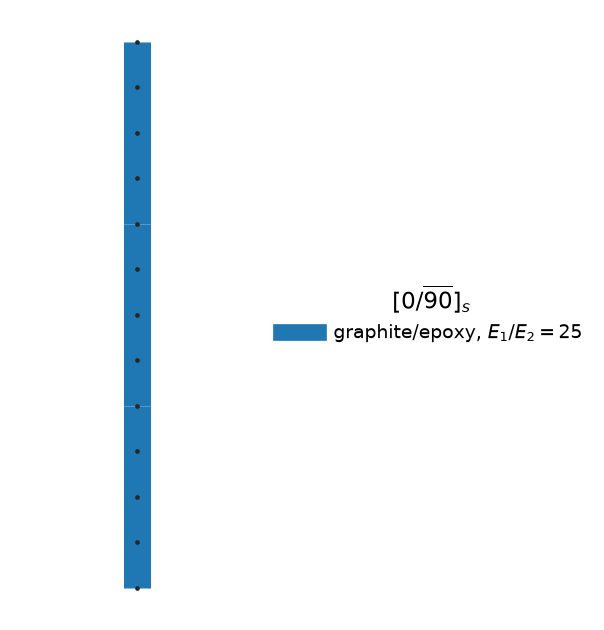
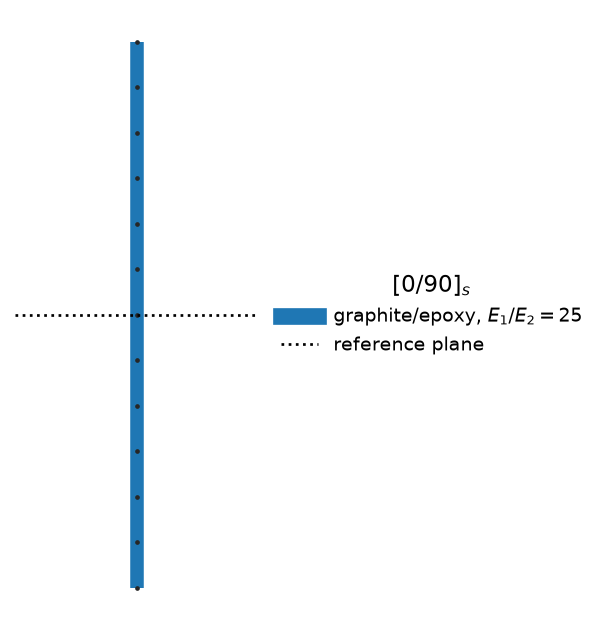
segment_plate plot: halve the mesh line weight (13 -> 6.5) and show the reference plane instead of spelling it. Dropped the overbar from layup_label (an odd palindrome now just keeps its mid-plane ply as the last token, Nayak-style: [0/90/0/90/core]s) and added a black dotted axhline at x3 = 0 with 

Changed region(s): [[0.1788, 0.0603, 0.2682, 0.9349], [0.447, 0.4222, 0.9834, 0.573], [0.3576, 0.4825, 0.3874, 0.5127]]

diff --git a/opensg_jax/fe_jax/segment_plate.py b/opensg_jax/fe_jax/segment_plate.py
@@ -208,12 +208,14 @@ def layup_label(angles, mat_names):
     Plies of the majority (face) material are named by their fibre angle, anything else
     by its material -- the sandwich convention that writes the core as a token rather
     than a meaningless 0 degrees.  A palindromic stack collapses onto its symmetric half
-    with the ``s`` subscript, and an odd stack puts the classical overbar on the
-    mid-plane ply::
+    with the ``s`` subscript; an odd stack keeps its mid-plane ply as the last token
+    (Nayak's own form for this sandwich).  The classical overbar that would mark that
+    ply is deliberately NOT drawn -- the figure shows the reference plane as a dotted
+    line straight through the mesh, which says the same thing where you can see it::
 
-        [0/90/0]                 -> $[0/\\overline{90}]_s$
-        [0/90/0/90/core]s        -> $[0/90/0/90/\\overline{core}]_s$
-        [0/45/-45/90] (no symm.) -> $[0/45/-45/90]$
+        [0/90/0]                 -> $[0/90]_s$
+        [0/90/0/90/core]s        -> $[0/90/0/90/\\mathrm{core}]_s$
+        [0/45/-45/90] (no symm.) -> $[0/45/{-}45/90]$
     """
     face = max(set(mat_names), key=mat_names.count)
     # "{-}45", not "-45": braces make the minus an ordinary symbol, so mathtext
@@ -222,8 +224,7 @@ def layup_label(angles, mat_names):
            for a, m in zip(angles, mat_names)]
     n = len(tok)
     if n > 1 and tok == tok[::-1]:
-        half = tok[:n // 2] + ([("\\overline{%s}" % tok[n // 2])] if n % 2 else [])
-        return "$[%s]_s$" % "/".join(half)
+        return "$[%s]_s$" % "/".join(tok[:(n + 1) // 2])
     return "$[%s]$" % "/".join(tok)
 
 
@@ -252,12 +253,15 @@ def _draw_plate_sg(png_path, node_x, elements, elem_sets, section_sets,
     fig, ax = plt.subplots(figsize=(2.1, 5.2))
     for e, el in enumerate(elements):                 # each element = one line segment
         ax.plot([0.0, 0.0], [z[el[0]], z[el[-1]]], "-",
-                color=colr[mat_names[ply_of[e]]], lw=13.0,
+                color=colr[mat_names[ply_of[e]]], lw=6.5,
                 solid_capstyle="butt", zorder=1)
     ax.plot(np.zeros_like(z), z, ".", ms=2.5, color="0.15", zorder=3)
     for m in mats:
         label = (material_db or {}).get(m, {}).get("full_name") or m
         ax.plot([], [], "-", color=colr[m], lw=8, label=label)
+    # x3 = 0 IS the reference plane by construction of the mesh -- draw it, rather
+    # than encoding it as an overbar in the stacking sequence
+    ax.axhline(0.0, ls=":", color="k", lw=1.3, zorder=4, label="reference plane")
 
     ax.set_xlim(-0.05, 0.05)
     ax.set_xticks([])
